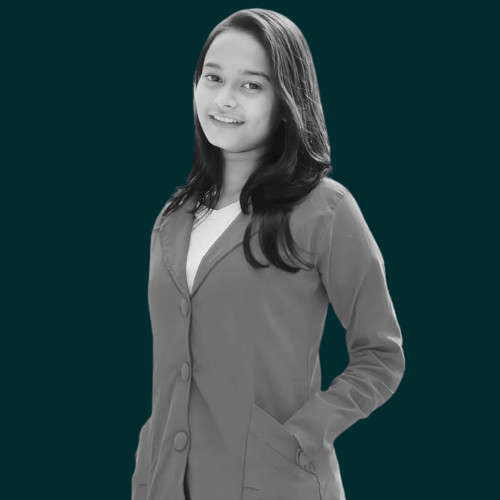
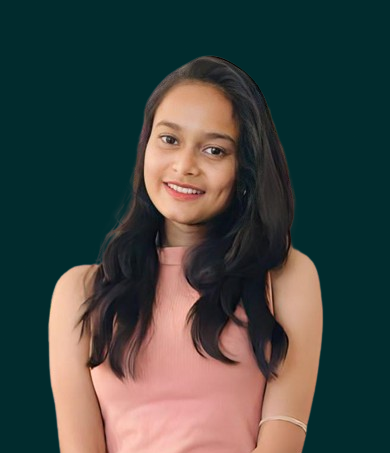
Added Our Team section

diff --git a/app/page.js b/app/page.js
@@ -24,9 +24,9 @@ import { useState, useEffect } from "react";
 import { ToastContainer, toast } from "react-toastify";
 import "react-toastify/dist/ReactToastify.css";
 import { Bounce } from "react-toastify";
-import zaman from "@/public/zaman.png"
-import suchi from "@/public/suchi.png"
-import arshad from "@/public/arshad.png"
+import zaman from "@/public/zaman.png";
+import suchi from "@/public/suchi.png";
+import arshad from "@/public/arshad.png";
 
 export default function Home() {
 	const [formData, setFormData] = useState({
@@ -3871,20 +3871,22 @@ export default function Home() {
 						Our Team
 					</h1>
 					<p className="text-[#507C7C] text-[16px] text-center">
-					At DevXplore, we pride ourselves on our dedicated team of professionals who are committed to delivering top-notch web and mobile app solutions. Our team consists of experts in various fields:
+						At DevXplore, we pride ourselves on our dedicated team of
+						professionals who are committed to delivering top-notch web and
+						mobile app solutions. Our team consists of experts in various
+						fields:
 					</p>
 				</div>
 				<div className="w-full min-h-96 overflow-hidden justify-center items-center flex flex-wrap mt-10 px-5 gap-10">
 					<div className="flex flex-col gap-10 max-w-[440px] h-[350px] overflow-hidden rounded-2xl border border-[#00393d] teambg">
 						<div className="w-full h-[35%]  bg-transparent bg-gradient-to-b from-[#00313560] to-[#000e0f] flex  justify-center relative">
-							<div className="w-[80px] h-[80px] rounded-full border-[6px] border-[#00393d] overflow-hidden absolute bottom-[-25px]">
+							<div className="w-[100px] h-[100px] rounded-full border-[6px] border-[#00393d] overflow-hidden absolute bottom-[-25px]">
 								<Image
-								alt="Zaman Image"
-
+									alt="Zaman Image"
 									src={zaman}
 									width={500}
 									height={500}
-									className="w-[80px] h-[80px] rounded-full object-contain object-top"
+									className="w-[100px] h-[100px] rounded-full object-cover "
 								></Image>
 							</div>
 						</div>
@@ -3894,20 +3896,21 @@ export default function Home() {
 								Co-Founder · Softwere Developer
 							</span>
 							<p className="text-[13px] text-center">
-							Co-Founder and frontend developer with 4+ years of experience, creating bespoke web and mobile solutions with technical expertise and innovation.
+								Co-Founder and frontend developer with 4+ years of experience,
+								creating bespoke web and mobile solutions with technical
+								expertise and innovation.
 							</p>
 						</div>
 					</div>
 					<div className="flex flex-col gap-10 max-w-[440px] h-[350px] overflow-hidden rounded-2xl border border-[#00393d] teambg">
 						<div className="w-full h-[35%] bg-transparent bg-gradient-to-b from-[#00313560] to-[#000e0f] flex  justify-center relative">
-							<div className="w-[80px] h-[80px] rounded-full border-[6px] border-[#00393d] overflow-hidden absolute bottom-[-25px]">
+							<div className="w-[100px] h-[100px] rounded-full border-[6px] border-[#00393d] overflow-hidden absolute bottom-[-25px]">
 								<Image
-								alt="Aman Image"
-
+									alt="Aman Image"
 									src={arshad}
 									width={500}
 									height={500}
-									className="w-[80px] h-[80px] rounded-full object-contain object-top"
+									className="w-[100px] h-[100px] rounded-full object-cover object-top"
 								></Image>
 							</div>
 						</div>
@@ -3917,27 +3920,33 @@ export default function Home() {
 								Co-Founder · Softwere Developer
 							</span>
 							<p className="text-[13px] text-center">
-							Co-Founder and backend developer with 5+ years of experience, excelling in problem-solving and precision for high-quality, client-focused project execution.
+								Co-Founder and backend developer with 5+ years of experience,
+								excelling in problem-solving and precision for high-quality,
+								client-focused project execution.
 							</p>
 						</div>
 					</div>
 					<div className="flex flex-col gap-10 max-w-[440px] h-[350px] overflow-hidden rounded-2xl border border-[#00393d] teambg">
 						<div className="w-full h-[35%] bg-transparent bg-gradient-to-b from-[#00313560] to-[#000e0f] flex  justify-center relative">
-							<div className="w-[80px] h-[80px] rounded-full border-[6px] border-[#00393d] overflow-hidden absolute bottom-[-25px]">
+							<div className="w-[100px] h-[100px] rounded-full border-[6px] border-[#00393d] overflow-hidden absolute bottom-[-25px]">
 								<Image
-								alt="Suchi Image"
+									alt="Suchi Image"
 									src={suchi}
 									width={500}
 									height={500}
-									className="w-[80px] h-[80px] rounded-full object-contain object-top"
+									className="w-[100px] h-[100px] rounded-full object-cover object-bottom"
 								></Image>
 							</div>
 						</div>
 						<div className=" flex flex-col px-4 py-4 gap-4 justify-center items-center text-[#ccfffa]">
 							<span>Sucharita Mohanty</span>
-							<span className="text-[#649B9B] text-center">Co-Founder & UI, UX Designer</span>
+							<span className="text-[#649B9B] text-center">
+								Co-Founder & UI, UX Designer
+							</span>
 							<p className="text-[13px] text-center">
-							Co-Founder and UI/UX designer with 4+ years of experience, crafting intuitive, visually appealing interfaces to enhance user experience creatively and insightfully.
+								Co-Founder and UI/UX designer with 4+ years of experience,
+								crafting intuitive, visually appealing interfaces to enhance
+								user experience creatively and insightfully.
 							</p>
 						</div>
 					</div>
